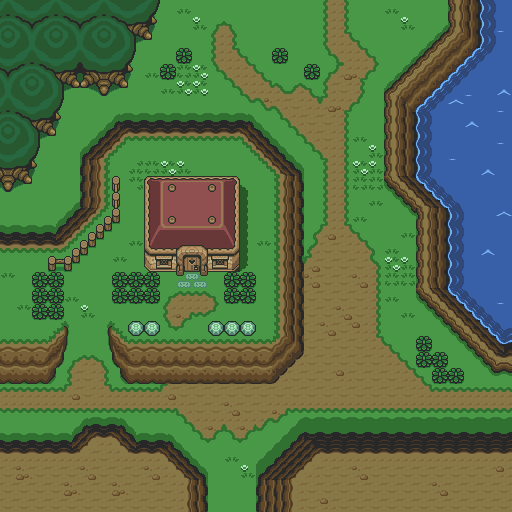
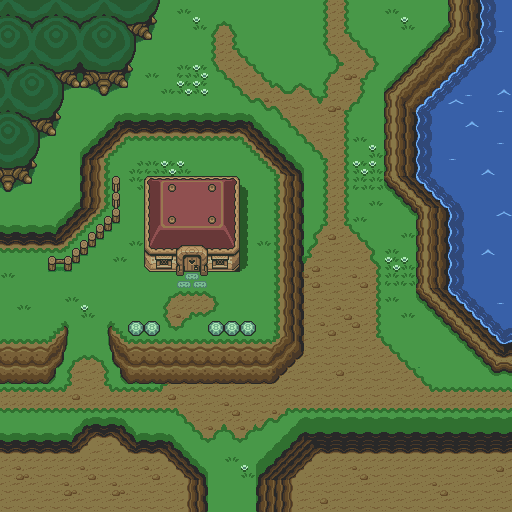
bosjes

diff --git a/zelda/zelda/Controller.java b/zelda/zelda/Controller.java
@@ -1,0 +1,124 @@
+package zelda;
+
+import java.awt.event.KeyEvent;
+import java.awt.event.KeyListener;
+import javax.swing.JFrame;
+import zelda.engine.GObject;
+import zelda.engine.Scene;
+import zelda.link.Link;
+
+/**
+ *
+ * @author maartenhus
+ */
+public class Controller implements Runnable, KeyListener
+{
+	private Thread thread;
+	private ZeldaGame game;
+	private View view;
+	private Link link;
+	private Scene scene;
+	//private PolyCreator polyCreator;
+
+	public Controller(ZeldaGame game, View view, final JFrame frame)
+	{
+		this.game = game;
+		this.view = view;
+		link = game.getLink();  //handles input
+		scene = game.getScene();//handles input
+
+		//frame.addMouseListener(new PolyCreator(scene));
+		frame.addKeyListener(this);
+
+		thread = new Thread(this, "GameLoop");
+		thread.start();
+	}
+
+	public void run()
+	{
+		while (game.isRunning())
+		{
+			try
+			{
+				scene.handleInput();
+				link.handleInput();
+
+				for(GObject obj : scene.getGObjects())
+				{
+					obj.doInLoop();
+				}
+
+				view.draw();
+
+				Thread.sleep(game.getGameSpeed());
+			}
+			catch (InterruptedException e){}
+		}
+
+		view.exitFullScreen();
+		game.quit();
+	}
+
+	public void keyPressed(KeyEvent e)
+	{
+		if (e.getKeyCode() == KeyEvent.VK_ESCAPE)
+		{
+			game.setRunning(false);
+		}
+
+		switch(e.getKeyCode())
+		{
+			case KeyEvent.VK_A:
+				link.setaPressed(true);
+				break;
+			case KeyEvent.VK_D:
+				link.setdPressed(true);
+				break;
+			case KeyEvent.VK_W:
+				link.setwPressed(true);
+				break;
+			case KeyEvent.VK_S:
+				link.setsPressed(true);
+				break;
+			case KeyEvent.VK_J:
+				link.setjPressed(true);
+				break;
+			case KeyEvent.VK_K:
+				link.setkPressed(true);
+				break;
+			case KeyEvent.VK_L:
+				link.setlPressed(true);
+				break;
+		}
+	}
+
+	public void keyReleased(KeyEvent e)
+	{
+		switch(e.getKeyCode())
+		{
+			case KeyEvent.VK_A:
+				link.setaPressed(false);
+				break;
+			case KeyEvent.VK_D:
+				link.setdPressed(false);
+				break;
+			case KeyEvent.VK_W:
+				link.setwPressed(false);
+				break;
+			case KeyEvent.VK_S:
+				link.setsPressed(false);
+				break;
+			case KeyEvent.VK_J:
+				link.setjPressed(false);
+				break;
+			case KeyEvent.VK_K:
+				link.setkPressed(false);
+				break;
+			case KeyEvent.VK_L:
+				link.setlPressed(false);
+				break;
+		}
+	}
+
+	public void keyTyped(KeyEvent e){}
+}

diff --git a/zelda/zelda/View.java b/zelda/zelda/View.java
@@ -1,0 +1,102 @@
+package zelda;
+
+import java.awt.Color;
+import java.awt.Graphics;
+import java.awt.Graphics2D;
+import java.awt.GraphicsConfiguration;
+import java.awt.GraphicsDevice;
+import java.awt.GraphicsEnvironment;
+import java.awt.Shape;
+import java.awt.image.BufferStrategy;
+import java.awt.image.BufferedImage;
+import javax.swing.JFrame;
+import zelda.engine.GObject;
+import zelda.link.SwordState;
+
+/**
+ *
+ * @author maartenhus
+ */
+public class View
+{
+	private ZeldaGame game;
+
+	private BufferStrategy buffer;
+	private BufferedImage bi;
+	private GraphicsDevice gd;
+
+	private int displayWidth   = 640;
+	private int displayHeight  = 480;
+
+	private int x;
+	private int y;
+
+	public View(ZeldaGame game, JFrame frame)
+	{
+		this.game = game;
+
+		GraphicsEnvironment ge = GraphicsEnvironment.getLocalGraphicsEnvironment();
+		gd = ge.getDefaultScreenDevice();
+		GraphicsConfiguration gc = gd.getDefaultConfiguration();
+
+		//gd.setFullScreenWindow(frame);
+
+		if (gd.isDisplayChangeSupported())
+		{
+			//gd.setDisplayMode(new DisplayMode(displayWidth, displayHeight, 32, DisplayMode.REFRESH_RATE_UNKNOWN));
+		}
+
+		frame.createBufferStrategy(2);
+		frame.setBackground(Color.BLACK);
+		buffer = frame.getBufferStrategy();
+		bi = gc.createCompatibleImage(game.getWidth(), game.getHeight());
+
+		x = (displayWidth - game.getWidth()) /2;
+		y = (displayHeight - game.getHeight()) /2;
+	}	
+
+	public void draw()
+	{
+		Graphics graphics = buffer.getDrawGraphics();
+		Graphics2D g2 = bi.createGraphics();
+
+		g2.setColor(Color.black);
+
+		//System.out.println("draw");
+		game.getScene().draw(g2);
+
+		g2.setColor(Color.red);
+
+		for (GObject obj : game.getScene().getGObjects())
+		{
+			g2.draw(obj.getRectangle());
+			obj.animate();
+			obj.draw(g2);
+		}
+
+		for (Shape s : game.getScene().getSolids())
+		{
+			g2.draw(s);
+		}
+
+		if (game.getLink().getStateString().equals("SwordState"))
+		{
+			g2.setColor(Color.blue);
+			g2.draw(((SwordState)game.getLink().getState()).getSword());
+		}
+
+		//graphics.drawImage(bi, x, y, null);
+		graphics.drawImage(bi, 0, 0, null);
+
+		if (!buffer.contentsLost())
+			buffer.show();
+
+		graphics.dispose();
+		g2.dispose();
+	}
+
+	public void exitFullScreen()
+	{
+		gd.setFullScreenWindow(null);
+	}
+}

diff --git a/zelda/zelda/PolyCreator.java b/zelda/zelda/PolyCreator.java
@@ -1,0 +1,51 @@
+package zelda;
+
+import java.awt.Polygon;
+import java.awt.event.MouseAdapter;
+import java.awt.event.MouseEvent;
+import zelda.engine.Scene;
+
+/**
+ *
+ * @author maartenhus
+ */
+public class PolyCreator extends MouseAdapter
+{
+	private Scene scene;
+	private Polygon poly = new Polygon();
+
+	public PolyCreator(Scene scene)
+	{
+		this.scene = scene;
+	}
+
+	@Override
+	public void mouseClicked(MouseEvent e)
+	{
+		if(e.isControlDown())
+		{
+			System.out.print("int[] xpos = {");
+			for (int i = 0; i < poly.xpoints.length; i++)
+			{
+				System.out.print(poly.xpoints[i] + ", ");
+			}
+			System.out.println("};");
+
+			System.out.print("int[] ypos = {");
+			for (int i = 0; i < poly.ypoints.length; i++)
+			{
+				System.out.print(poly.ypoints[i] + ", ");
+			}
+			System.out.println("};");
+		}
+		else
+		{
+			int x = scene.getSprite().getX() + e.getX();
+			int y = scene.getSprite().getY() + e.getY() - 23;
+
+			poly.addPoint(x, y);
+
+			System.out.println(x + " " + y);
+		}
+	}
+}

diff --git a/zelda/items/Bush.java b/zelda/items/Bush.java
@@ -1,0 +1,40 @@
+/*
+ * To change this template, choose Tools | Templates
+ * and open the template in the editor.
+ */
+package zelda.items;
+
+import java.awt.Rectangle;
+import zelda.collision.Hittable;
+import zelda.collision.Weapon;
+import zelda.engine.GObject;
+import zelda.engine.Game;
+
+/**
+ *
+ * @author Christiaan
+ */
+public class Bush extends GObject implements Hittable {
+
+    public Bush(Game game, int x, int y) {
+        super(game, x, y, 16, 14, "images/items.png");
+        spriteLoc.put("bush", new Rectangle(0, 0, 16, 14));
+        spriteLoc.put("stump", new Rectangle(17, 0, 15, 13));
+        
+        String[] bushani = {"bush"};
+        setAnimation(bushani);
+        sprite.setSprite(spriteLoc.get("bush"));
+
+
+    }
+
+    public void hitBy(Weapon weapon) {
+        switch (weapon) {
+            case SWORD:
+                String[] bushani = {"stump"};
+                setAnimation(bushani);
+                alive = false;
+                break;
+        }
+    }
+}

diff --git a/zelda/zelda/Main.java b/zelda/zelda/Main.java
@@ -1,0 +1,28 @@
+package zelda;
+
+import javax.swing.JFrame;
+
+public class Main extends JFrame
+{
+	private ZeldaGame game = new ZeldaGame();
+	private View view;
+	private Controller ctl;
+
+	public Main()
+	{
+		setIgnoreRepaint(true);
+		//setUndecorated(true);
+		setLocationRelativeTo(null);
+		setDefaultCloseOperation(JFrame.EXIT_ON_CLOSE);
+		setSize(game.getWidth(), game.getHeight());
+		setVisible(true);
+
+		view = new View(game, this);
+		ctl = new Controller(game, view, this);
+	}
+
+	public static void main(String[] args)
+	{
+		new Main();
+	}
+}

diff --git a/zelda/scene/HouseScene.java b/zelda/scene/HouseScene.java
@@ -3,6 +3,7 @@ package zelda.scene;
 import java.awt.Polygon;
 import zelda.ZeldaGame;
 import zelda.enemy.BlueSoldier;
+import zelda.items.Bush;
 import zelda.karacter.Direction;
 
 /**
@@ -59,6 +60,9 @@ public class HouseScene extends ZeldaScene
 		solids.add(right);
 		solids.add(down);
 		solids.add(house);
+
+                Bush bush = new Bush(game, 160, 50);
+                gameObjects.add(bush);
 
 		gameObjects.add(game.getLink());
 		gameObjects.add(new BlueSoldier(game, 300, 90, Direction.LEFT, 20));

diff --git a/zelda/zelda/ZeldaGame.java b/zelda/zelda/ZeldaGame.java
@@ -1,0 +1,27 @@
+package zelda;
+
+import zelda.engine.Game;
+import zelda.link.Link;
+import zelda.scene.HouseScene;
+
+/**
+ *
+ * @author maartenhus
+ */
+public class ZeldaGame extends Game
+{
+	private Link link;
+
+	public ZeldaGame()
+	{
+		link = new Link(this, 100, 100);
+		scene = new HouseScene(this);
+
+		scene.initScene();
+	}
+
+	public Link getLink()
+	{
+		return link;
+	}
+}
